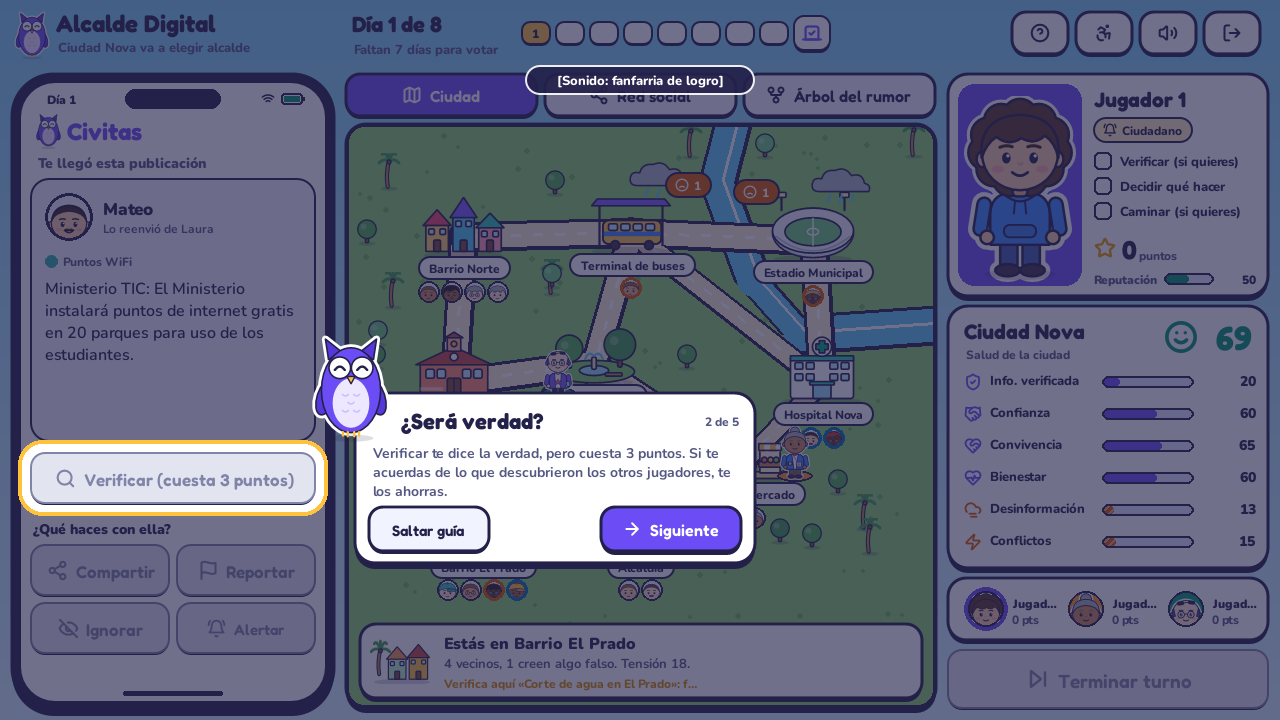
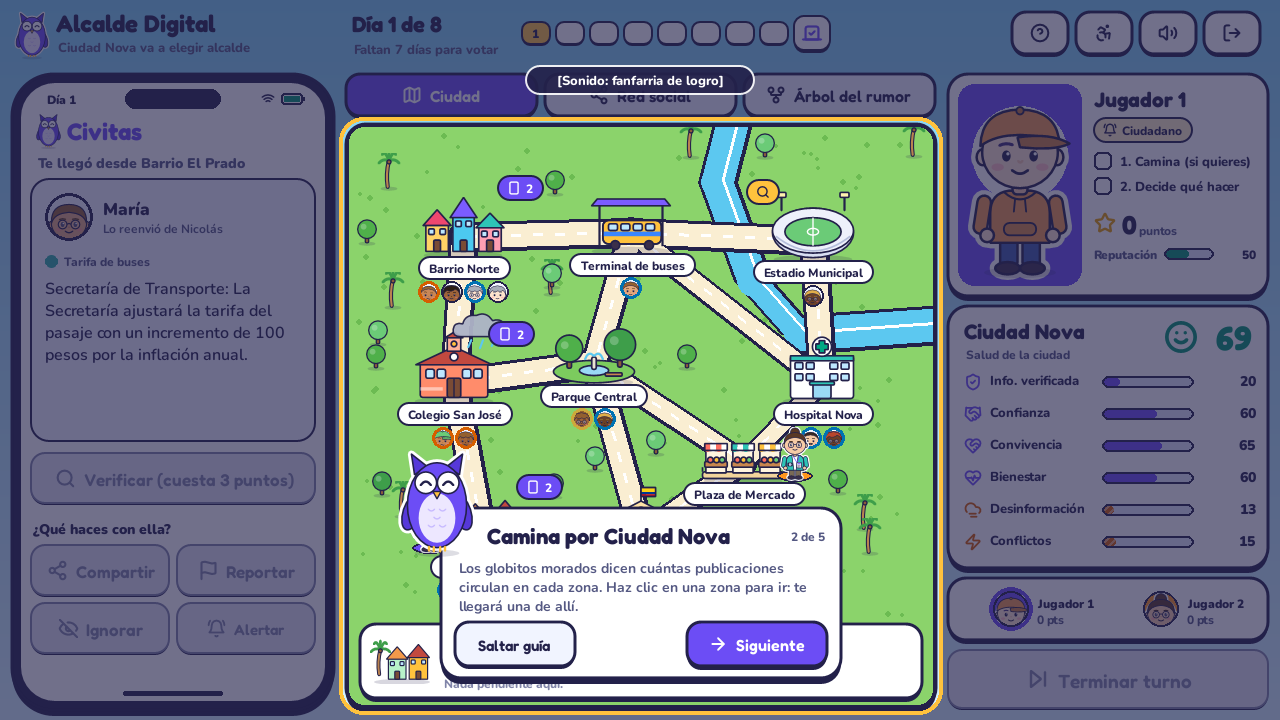
Caminar importa: cada zona tiene sus publicaciones y decidir afecta a esa zona
- La publicación del turno sale de la zona donde está el jugador (BFS en el grafo de la ciudad).
- Caminar antes de decidir trae una publicación de la zona nueva.
- Frenar un rumor corrige a los vecinos de su zona; compartirlo la agita.
- Globitos morados en el mapa con cuántas publicaciones circulan por zona.
- Turno en dos pasos (caminar y decidir), guía, ayuda, documentos y pruebas.

diff --git a/alcalde/modelo/partida.py b/alcalde/modelo/partida.py
@@ -178,6 +178,7 @@ class Partida:
         self._recalcular()
         self.ciudad.historial = [dict(self.ciudad.v)]
         self.log("Día 1: circulan las primeras publicaciones en Civitas.", "evento")
+        self.turno = self._turno_vacio()
         self.repartir()
 
     # ------------------------------------------------------------------ utilidades
@@ -397,25 +398,37 @@ class Partida:
         return dict(caso=None, nodo=None, verifico=False, decidio=None, resultado=None, camino=False,
                     converso=False)
 
-    def repartir(self) -> None:
-        """El juego le reparte al jugador del turno UNA publicación que nadie ha revelado todavía.
+    def zona_de(self, nodo: NodoMutacion) -> Optional[str]:
+        """Una publicación circula en la zona donde vive quien la publicó."""
+        dato = self.ciudadano(nodo.autor)
+        return dato.zona if dato is not None else None
 
-        Se prefieren las que le llegaron por la red social y las que siguen circulando. Una
-        publicación que ya se decidió no vuelve a salir.
+    def _pendiente(self, n: NodoMutacion) -> bool:
+        return not (n.id in self.repartidos or n.verificado or n.inmune or n.es_correccion)
+
+    def publicaciones_en(self, zona: str) -> int:
+        """Cuántas publicaciones sin revelar circulan en una zona (lo que muestra el mapa)."""
+        return sum(1 for c in self.casos_abiertos() for n in c.arbol.preorden()
+                   if self._pendiente(n) and self.zona_de(n) == zona)
+
+    def repartir(self) -> None:
+        """Le reparte al jugador del turno UNA publicación que nadie ha revelado todavía.
+
+        Sale de la zona del mapa donde está el jugador o, si allí no circula nada, de la zona
+        más cercana (recorrido por niveles en el grafo de la ciudad). Una publicación que ya se
+        decidió no vuelve a salir.
         """
         j = self.jugador_actual
-        self.turno = self._turno_vacio()
+        _, nivel, _ = self.mapa.bfs(j.zona)
         for intento in range(2):
             opciones = []
             for c in self.casos_abiertos():
                 for n in c.arbol.preorden():
-                    if n.id in self.repartidos or n.verificado or n.inmune or n.autor == j.nombre:
+                    if not self._pendiente(n) or n.autor == j.nombre:
                         continue
-                    if n.es_correccion:
-                        continue
-                    valor = self.rng.random() * 3
+                    valor = self.rng.random() * 3 - 10 * nivel.get(self.zona_de(n), 9)
                     if c.receptores.get(j.nombre) == n.id:
-                        valor += 4
+                        valor += 2
                     if not n.entregado:
                         valor += 2
                     opciones.append((valor, c, n))
@@ -427,6 +440,7 @@ class Partida:
             if intento == 0 and not self.terminada:
                 self._nuevo_caso(falso=self.rng.random() < 0.6)
                 self._recalcular()
+        self.turno.update(caso=None, nodo=None)
 
     def publicacion_turno(self) -> tuple[Optional[Caso], Optional[NodoMutacion]]:
         caso = self.caso_por_id(self.turno.get("caso")) if self.turno.get("caso") else None
@@ -475,6 +489,7 @@ class Partida:
         self.ultimo_resaltado = {}
         getattr(self, "_a_" + clave)(j, caso, nodo)
         if clave in DECISIONES:
+            self._efecto_en_zona(j, caso, nodo, clave)
             # Decidir revela la verdad frente a todos: los demás tienen que acordarse.
             nodo.verificado = True
             self.repartidos.add(nodo.id)
@@ -496,6 +511,26 @@ class Partida:
             self.log(f"La historia '{caso.hecho.titulo}' fue retirada de Civitas.", "evento")
         self._recalcular()
         return self.mensajes[antes:]
+
+    def _efecto_en_zona(self, j: Jugador, caso: Caso, nodo: NodoMutacion, clave: str) -> None:
+        """Lo que se decide con una publicación se nota en la zona donde circula."""
+        zona = self.zona_de(nodo)
+        if zona not in ZONAS:
+            return
+        frenar = clave == "reportar" or clave in ("alertar", "rastrear", "amplificar", "desmentir")
+        if not nodo.es_veraz and frenar:
+            vecinos = [v for v in residentes(self.red, zona) if caso.creencia.get(v) == "falso"]
+            corregidos, _ = self._corregir(caso, vecinos)
+            self.tension_extra[zona] = max(0.0, self.tension_extra[zona] - 10)
+            if corregidos:
+                j.stats["corregidos"] += len(corregidos)
+                self.animar(t="charla", zona=zona, a=corregidos, jugador=self.indice_de(j))
+                self.log(f"En {nombre_zona(zona)}, {len(corregidos)} vecinos dejaron de creerlo.", "bueno")
+        elif not nodo.es_veraz and clave == "compartir":
+            self.tension_extra[zona] += 12
+            self.log(f"{nombre_zona(zona)} se agitó: más vecinos discuten por el rumor.", "malo")
+        elif nodo.es_veraz and clave == "compartir":
+            self.tension_extra[zona] = max(0.0, self.tension_extra[zona] - 5)
 
     def _en_vano(self, j: Jugador, que: str) -> bool:
         """Usar un desmentido sobre algo verdadero: no había nada que corregir."""
@@ -810,6 +845,10 @@ class Partida:
         self.ultimo_resaltado = {"ruta": ruta}
         self.animar(t="mover", jugador=self.indice_de(j), ruta=ruta)
         self.log(f"{j.nombre} caminó hasta {nombre_zona(zona)}.", "info")
+        if not self.turno.get("verifico") and not self.turno.get("decidio"):
+            if self.turno.get("nodo") is not None:
+                self.repartidos.discard(self.turno["nodo"])
+            self.repartir()
         clave = (self.ronda, j.nombre, zona)
         if j.candidato and clave not in self._visitas:
             self._visitas.add(clave)

diff --git a/alcalde/ui/vista_mapa.py b/alcalde/ui/vista_mapa.py
@@ -18,6 +18,8 @@ ICONO_EVENTO = dict(falsa="triangle-alert", rumor="message-square-warning", verd
                     vecino="house")
 # En estas zonas los globitos van a la izquierda del edificio y las caras a la derecha.
 ZONAS_IZQ = ("ESTADIO", "HOSPITAL", "PLAZA", "ALCALDIA")
+# La Terminal también los pone a la izquierda: a su derecha caen los del Estadio.
+GLOBOS_IZQ = ZONAS_IZQ + ("TERMINAL",)
 RIO = [(0.67, -0.06), (0.63, 0.10), (0.69, 0.27), (0.77, 0.36), (1.06, 0.34)]
 
 
@@ -342,23 +344,23 @@ class VistaMapa:
         return charla, hecho
 
     def _insignias(self, sup, z, pos):
-        """Globitos sobre el edificio: vecinos para convencer, vecinos engañados, hecho por verificar aquí."""
+        """Globitos sobre el edificio: publicaciones que circulan aquí, vecinos para convencer y
+        hecho por verificar aquí."""
         c = TEMA.c
         p = self.p
         charla, hecho = self.tareas(z)
         x, y = pos
         globos = []
+        n = p.publicaciones_en(z)
+        if n:
+            globos.append((str(n), c["acento"], c["sobre_color"], "smartphone"))
         if charla:
             globos.append((str(len(charla)), c["bueno"], c["sobre_color"], "message-circle"))
-        else:
-            engañados = sum(1 for v in residentes(p.red, z) if p.estado_ciudadano(v) == "falso")
-            if engañados:
-                globos.append((str(engañados), c["malo"], c["sobre_color"], "frown"))
         if hecho:
             globos.append(("", c["mango"], c["texto"], "search"))
         # En estas zonas los globitos van a la izquierda del edificio, para no caer sobre el
         # nombre de la zona que les queda arriba a la derecha.
-        derecha = z in ZONAS_IZQ
+        derecha = z in GLOBOS_IZQ
         bx = x - 34 if derecha else x + 34
         for s_, fondo, color, icono in (reversed(globos) if derecha else globos):
             r = chip(sup, s_, (bx, y - 48), fondo, color, icono, 12, ancla="mr" if derecha else "ml", alto=24)
@@ -384,8 +386,14 @@ class VistaMapa:
         if self.j.en_red() and not puedo and aqui:
             titulo = f"{j.nombre} está en {nombre_zona(j.zona)}"
         texto(sup, recortar(titulo, 16, ancho, 900), (r.x + 84, r.y + 8), 16, c["texto"], peso=900)
-        texto(sup, recortar(f"{len(gente)} vecinos, {creen} creen algo falso. Tensión {p.tension(z)}.", 13, ancho,
-                            700), (r.x + 84, r.y + 30), 13, c["tinta2"], peso=700)
+        n = p.publicaciones_en(z)
+        _, mia = p.publicacion_turno()
+        if aqui and mia is not None and p.zona_de(mia) == z:
+            linea = "Tu publicación de hoy es de aquí."
+        else:
+            circulan = "Sin publicaciones" if not n else "1 publicación" if n == 1 else f"{n} publicaciones"
+            linea = f"{circulan} · {creen} vecinos engañados"
+        texto(sup, recortar(linea, 13, ancho, 700), (r.x + 84, r.y + 30), 13, c["tinta2"], peso=700)
         if charla:
             tarea, col = (f"Puedes convencer a {len(charla)} vecinos engañados." if len(charla) > 1 else
                           "Puedes convencer a 1 vecino engañado."), c["bueno"]
@@ -408,8 +416,10 @@ class VistaMapa:
                 from .widgets import tooltip
                 tooltip(sup, motivo, self.btn_conversar.rect.midtop, 240)
         elif not aqui and puedo:
-            if z in destinos:
-                msg, col = f"Clic para caminar hasta aquí por la ruta más corta ({int(destinos[z])} min).", c["bueno"]
+            if z in destinos and (p.turno.get("verifico") or p.turno.get("decidio")):
+                msg, col = f"Clic para caminar hasta aquí ({int(destinos[z])} min por la ruta más corta).", c["bueno"]
+            elif z in destinos:
+                msg, col = "Clic para ir: te llegará una publicación de aquí.", c["bueno"]
             else:
                 msg, col = "Ya caminaste en este turno.", c["tinta2"]
             parrafo(sup, msg, derecha.x, derecha.y + 4, derecha.w, 13, col, peso=900, max_lineas=3, interlineado=3)

diff --git a/alcalde/ui/ayuda.py b/alcalde/ui/ayuda.py
@@ -29,14 +29,18 @@ SECCIONES = [
          "cómo tus decisiones cambian la ciudad y hasta el resultado de la elección."),
     ]),
     ("Cómo se juega", "list", [
-        ("item", "smartphone", "Te llega una publicación", "En cada turno el juego te da una publicación de "
-                                                          "Civitas. Puede ser verdadera o falsa."),
+        ("item", "smartphone", "Te llega una publicación", "En cada turno te llega una publicación de la zona "
+                                                          "donde estás. Puede ser verdadera o falsa."),
+        ("item", "map", "Camina (si quieres)", "Antes de decidir puedes caminar a otra zona: te llegará una "
+                                              "publicación de allí. Los globitos morados del mapa dicen cuántas "
+                                              "hay en cada zona."),
         ("item", "search", "Verificar o recordar", "Verificar te dice la verdad pero cuesta 3 puntos. Cuando "
                                                   "alguien decide, todos ven si era verdad: si te acuerdas, te "
                                                   "ahorras la verificación."),
-        ("item", "check", "Decide", "Comparte lo verdadero y reporta lo falso. Solo hay una decisión por turno."),
-        ("item", "map", "Camina (si quieres)", "Haz clic en una zona para ir. Donde haya un globito verde puedes "
-                                              "conversar con vecinos que creen un rumor."),
+        ("item", "check", "Decide", "Comparte lo verdadero y reporta lo falso. Si frenas un rumor, los vecinos "
+                                   "de su zona dejan de creerlo; si lo compartes, esa zona se agita."),
+        ("item", "message-circle", "Conversa", "Donde haya un globito verde puedes conversar con vecinos que "
+                                              "creen un rumor y convencerlos."),
         ("item", "moon", "La noche", "Cuando todos juegan llega la noche: las publicaciones viajan por la red "
                                     "social (una ola), algunas mutan y ocurre un evento al azar."),
         ("item", "flame", "Publicaciones virales", "A veces algo se vuelve viral y hay que decidir contra "

diff --git a/alcalde/ui/guia.py b/alcalde/ui/guia.py
@@ -14,18 +14,18 @@ class Guia:
         self.j = juego
         J = juego
         self.pasos = [
-            (J.celular.r_post, "Te llegó una publicación", "En cada turno el juego te da una publicación de "
-                                                           "Civitas. Puede ser verdadera o falsa.", "mapa"),
+            (J.celular.r_post, "Te llegó una publicación", "En cada turno te llega una publicación de la zona "
+                                                           "donde estás. Puede ser verdadera o falsa.", "mapa"),
+            (J.r_centro, "Camina por Ciudad Nova", "Los globitos morados dicen cuántas publicaciones circulan en "
+                                                   "cada zona. Haz clic en una zona para ir: te llegará una de allí.",
+             "mapa"),
             (J.celular.b_verificar.rect.inflate(12, 12), "¿Será verdad?",
              "Verificar te dice la verdad, pero cuesta 3 puntos. Si te acuerdas de lo que descubrieron los "
              "otros jugadores, te los ahorras.", None),
             (pygame.Rect(J.celular.botones[0].rect.topleft,
                          (J.celular.r_acciones.w, 116)).inflate(12, 12), "Decide qué hacer",
-             "Compártela si es verdadera y repórtala si es falsa. Al decidir, todos ven si acertaste: "
-             "¡acuérdense para sus turnos!", None),
-            (J.r_centro, "Ciudad Nova", "Las caras son los vecinos. Haz clic en una zona para caminar hasta "
-                                        "allá; donde veas un globito verde, puedes conversar con vecinos engañados.",
-             "mapa"),
+             "Compártela si es verdadera y repórtala si es falsa. Si frenas un rumor, los vecinos de esa zona "
+             "dejan de creerlo. ¡Todos ven si acertaste!", None),
             (J.r_jugador, "Tu turno", "Aquí ves los pasos de tu turno y tus puntos. Cuando acabes, pulsa "
                                       "Terminar turno. ¡Ciudad Nova cuenta contigo!", None),
         ]

diff --git a/tests/test_grafos.py b/tests/test_grafos.py
@@ -10,6 +10,7 @@ from alcalde.estructuras.archivo_avl import ArchivoHechosAVL
 from alcalde.estructuras.grafo import Grafo
 from alcalde.modelo.mapa import CALLES, ZONAS, crear_mapa
 from alcalde.modelo.partida import Partida
+from alcalde.modelo.red_social import residentes
 from alcalde.modelo.serializacion import partida_a_dict, partida_desde_dict
 
 JUGADORES = [("Ana", "ciudadano", (0, 0, 0)), ("Beto", "periodista", (0, 0, 0)),
@@ -134,6 +135,33 @@ class TestMapa(unittest.TestCase):
             p.terminar_turno()
             if p.evento_viral:
                 p.resolver_viral(None)
+
+
+    def test_caminar_trae_publicacion_de_la_zona(self):
+        p = Partida(JUGADORES, semilla=7)
+        j = p.jugador_actual
+        otra = max((z for z in ZONAS if z != j.zona), key=p.publicaciones_en)
+        self.assertGreater(p.publicaciones_en(otra), 0)
+        p.mover(otra)
+        caso, nodo = p.publicacion_turno()
+        self.assertEqual(p.zona_de(nodo), otra)          # llega una de la zona nueva
+        p.ejecutar("verificar", caso, nodo)
+        p.terminar_turno()
+
+    def test_frenar_rumor_corrige_su_zona(self):
+        for semilla in range(30):
+            p = Partida(JUGADORES, semilla=semilla)
+            caso, nodo = p.publicacion_turno()
+            zona = p.zona_de(nodo)
+            if nodo.es_veraz or zona not in ZONAS:
+                continue
+            engañados = [v for v in residentes(p.red, zona) if caso.creencia.get(v) == "falso"]
+            if not engañados:
+                continue
+            p.ejecutar("reportar", caso, nodo)
+            self.assertTrue(all(caso.creencia.get(v) != "falso" for v in engañados))
+            return
+        self.skipTest("ninguna semilla dio un rumor con vecinos engañados en su zona")
 
 
 class TestVerificarEnTerreno(unittest.TestCase):

diff --git a/alcalde/ui/celular.py b/alcalde/ui/celular.py
@@ -2,7 +2,7 @@
 
 import pygame
 
-from ..modelo.mapa import nombre_zona
+from ..modelo.mapa import ZONAS, nombre_zona
 from . import personajes, recursos
 from .ayuda import ICONO_ROL
 from .juego_comun import cara, color_caso, color_estado, estado_nodo
@@ -98,10 +98,12 @@ class Celular:
         sup.blit(personajes.civi("feliz", 40), (s.x + 14, s.y + 26))
         texto(sup, "Civitas", (s.x + 46, s.y + 48), 24, c["acento"], peso=700, fam="titulo", ancla="ml")
         jugador = p.jugador_actual
-        titulo = "Te llegó esta publicación" if self.j.puedo_actuar() or not self.j.en_red() else \
-            f"Le llegó a {jugador.nombre}"
-        texto(sup, recortar(titulo, 14, s.w - 30, 900), (s.x + 16, s.y + 80), 14, c["tinta2"], peso=900, ancla="ml")
         caso, n = p.publicacion_turno()
+        zona = p.zona_de(n) if n is not None else None
+        desde = f" desde {nombre_zona(zona)}" if zona in ZONAS else ""
+        titulo = f"Te llegó{desde}" if self.j.puedo_actuar() or not self.j.en_red() else \
+            f"Le llegó a {jugador.nombre}{desde}"
+        texto(sup, recortar(titulo, 14, s.w - 30, 900), (s.x + 16, s.y + 80), 14, c["tinta2"], peso=900, ancla="ml")
         resultado = p.turno.get("resultado")
         if n is None:
             r = self.r_post

diff --git a/alcalde/ui/pantalla_juego.py b/alcalde/ui/pantalla_juego.py
@@ -550,9 +550,8 @@ class PantallaJuego:
         # Los pasos del turno, con su casilla marcada cuando ya se hicieron.
         y = r.y + 78
         t = p.turno
-        for hecho, etiqueta in ((t.get("verifico"), "Verificar (si quieres)"),
-                                (bool(t.get("decidio")), "Decidir qué hacer"),
-                                (t.get("camino"), "Caminar (si quieres)")):
+        for hecho, etiqueta in ((t.get("camino"), "1. Camina (si quieres)"),
+                                (bool(t.get("decidio")), "2. Decide qué hacer")):
             caja = pygame.Rect(x, y, 18, 18)
             pygame.draw.rect(sup, c["bueno"] if hecho else c["papel"], caja, border_radius=5)
             pygame.draw.rect(sup, c["borde"], caja, 2, border_radius=5)

diff --git a/docs/ENTREGA_2.md b/docs/ENTREGA_2.md
@@ -61,6 +61,8 @@ El enunciado pide que la ciudad y el personaje del jugador se vean, y que las ac
 
 - Cada hecho pasó en una zona (`Hecho.lugar`) y cada ciudadano vive en una zona.
 - Cada jugador está en una zona y puede **caminar una vez por turno** a cualquier zona, por la ruta más corta.
+- **Cada publicación circula en la zona de quien la publicó.** La que le llega al jugador sale de su zona o, si allí no hay, de la más cercana: se mide con un **BFS sobre el grafo de la ciudad** (nivel = número de calles). Si camina antes de verificar o decidir, le llega una de la zona nueva.
+- **Decidir tiene efecto local:** frenar un rumor (reportar o usar el poder especial) corrige a los vecinos de esa zona que lo creían y baja su tensión; compartir un rumor la sube. Eso conecta el grafo de la ciudad con la red social y con el árbol del rumor.
 - **En persona** se pueden hacer cosas que no se pueden hacer desde el celular:
   - **Verificar en terreno.** Si el hecho no está en el Archivo AVL, quien esté en el lugar de los hechos lo comprueba y lo **inserta** en el AVL (antes solo podía el periodista).
   - **Conversar con los vecinos.** Convence a los residentes de tu zona que creen un rumor que ya se descubrió falso.
@@ -175,7 +177,7 @@ Esta es una de las preguntas de la sustentación. Cuando una discusión **elimin
   - **Grados**: muestra el top 3 de seguidores.
   - **Confianza**: dibuja el camino de máxima confianza con el producto de los pesos.
 
-**Vista Ciudad** (`alcalde/ui/vista_mapa.py`): debajo de cada edificio están las caras de sus vecinos, con su estado. Cuando una publicación viaja, se ve pasar de cara en cara por la ciudad. Al pasar el mouse por una zona se dibuja la ruta de Dijkstra y la tarjeta dice sus minutos; al hacer clic el personaje camina por esa ruta. Sobre las zonas con tensión alta aparecen nubes de tormenta.
+**Vista Ciudad** (`alcalde/ui/vista_mapa.py`): debajo de cada edificio están las caras de sus vecinos, con su estado. Cuando una publicación viaja, se ve pasar de cara en cara por la ciudad. Cada zona muestra un globito morado con cuántas publicaciones circulan allí. Al pasar el mouse por una zona se dibuja la ruta de Dijkstra y la tarjeta dice sus minutos; al hacer clic el personaje camina por esa ruta. Sobre las zonas con tensión alta aparecen nubes de tormenta.
 
 | | |
 |---|---|

diff --git a/docs/ENTREGA_FINAL.md b/docs/ENTREGA_FINAL.md
@@ -48,7 +48,7 @@ La dirección visual es **«pegatina de campaña en una ciudad caribeña a pleno
 
 ![El celular de Civitas con la publicación y sus botones](img/v2/verificacion.png)
 
-- **Un turno simple.** El juego te da una publicación en el celular. Puedes verificarla (cuesta 3 puntos) y luego decides qué hacer con ella. Al decidir, todos ven si era verdadera o falsa: quien se acuerda se ahorra las verificaciones de los próximos turnos. El panel del jugador muestra los tres pasos del turno con casillas.
+- **Un turno simple, en dos pasos.** 1) Si quieres, caminas a otra zona del mapa: te llega una publicación de allí. 2) Decides qué hacer con la publicación del celular. Puedes verificarla (cuesta 3 puntos) y luego decides qué hacer con ella. Al decidir, todos ven si era verdadera o falsa: quien se acuerda se ahorra las verificaciones de los próximos turnos. El panel del jugador muestra los dos pasos con casillas.
 - **Vista previa de la consecuencia.** Al pasar el mouse por un botón se ve qué hace: «Se la mandas a tus 6 seguidores. Gana si es verdadera» o «Este hecho no está en el Archivo: ve al Hospital para verificarlo». Si un botón está apagado, se explica por qué.
 - **El resultado se explica.** Después de decidir, el celular dice si acertaste, cuántos puntos ganaste o perdiste y cuál es el hecho real, para que todos lo recuerden.
 - **Al verificar se ve la diferencia exacta** entre la publicación y el hecho oficial, con un sello de Falsa, Verdadera o Sin datos. Por ejemplo: *Cifra inflada. Dice: «durante 30 días». Oficial: «durante 3 días».*

diff --git a/README.md b/README.md
@@ -9,7 +9,7 @@ Ciudad Nova elige alcalde y todos hablan en **Civitas**, su red social. Ahí cir
 
 No hay preguntas de trivia: se aprende verificando antes de compartir, descubriendo dónde se torció una historia y viendo las consecuencias.
 
-**Cómo es un turno:** el juego te da una publicación. Puedes verificarla (cuesta 3 puntos) y luego decides qué hacer: compartirla, reportarla, ignorarla o usar el poder de tu personaje. Al decidir, todos ven si era verdadera o falsa, así que conviene acordarse: quien recuerda lo que ya se descubrió se ahorra las verificaciones y saca más puntos. Si quieres, también caminas a otra zona para conversar con los vecinos engañados.
+**Cómo es un turno:** te llega una publicación de la zona del mapa donde estás; si prefieres otra, caminas a otra zona y te llega una de allí (los globitos del mapa dicen cuántas circulan en cada zona). Puedes verificarla (cuesta 3 puntos) y luego decides qué hacer: compartirla, reportarla, ignorarla o usar el poder de tu personaje. Al decidir, todos ven si era verdadera o falsa, así que conviene acordarse: quien recuerda lo que ya se descubrió se ahorra las verificaciones y saca más puntos. Lo que decides se nota en esa zona: si frenas un rumor, sus vecinos dejan de creerlo; si lo compartes, la zona se agita.
 
 | | |
 |---|---|
